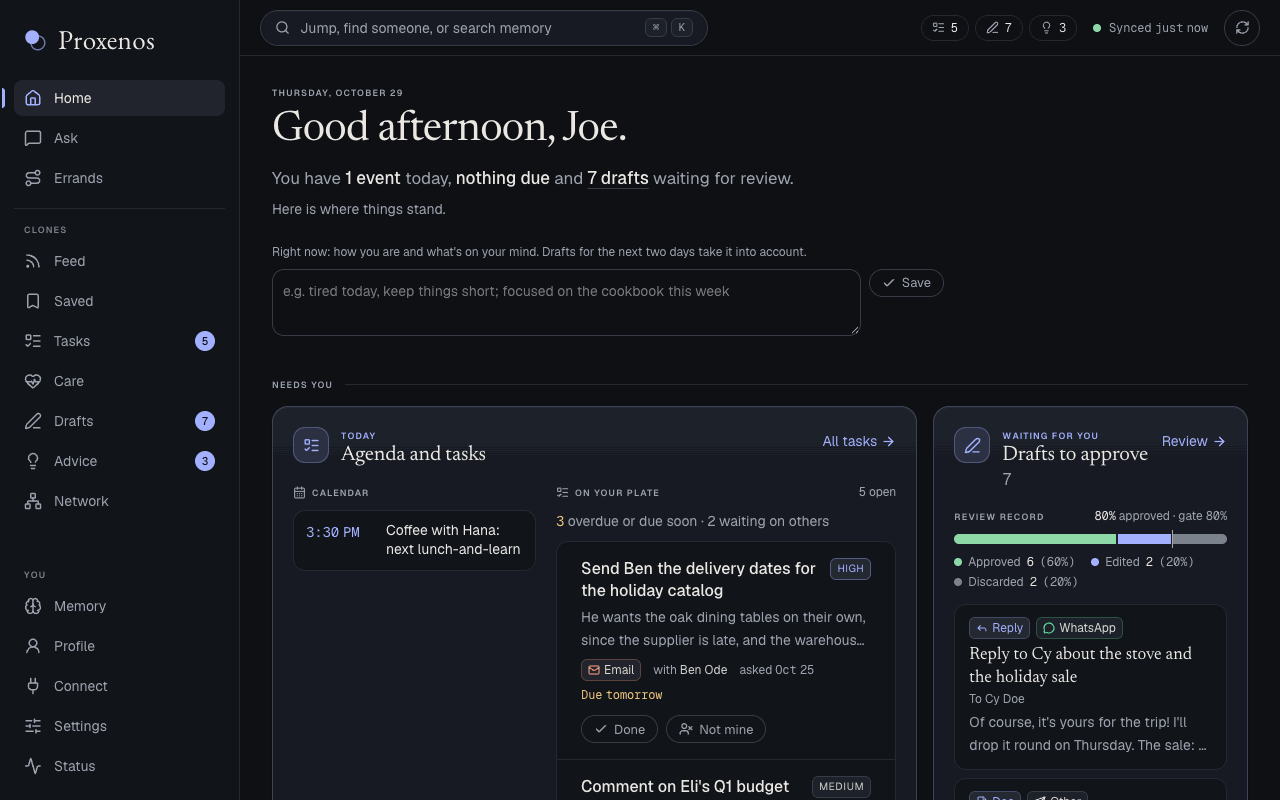
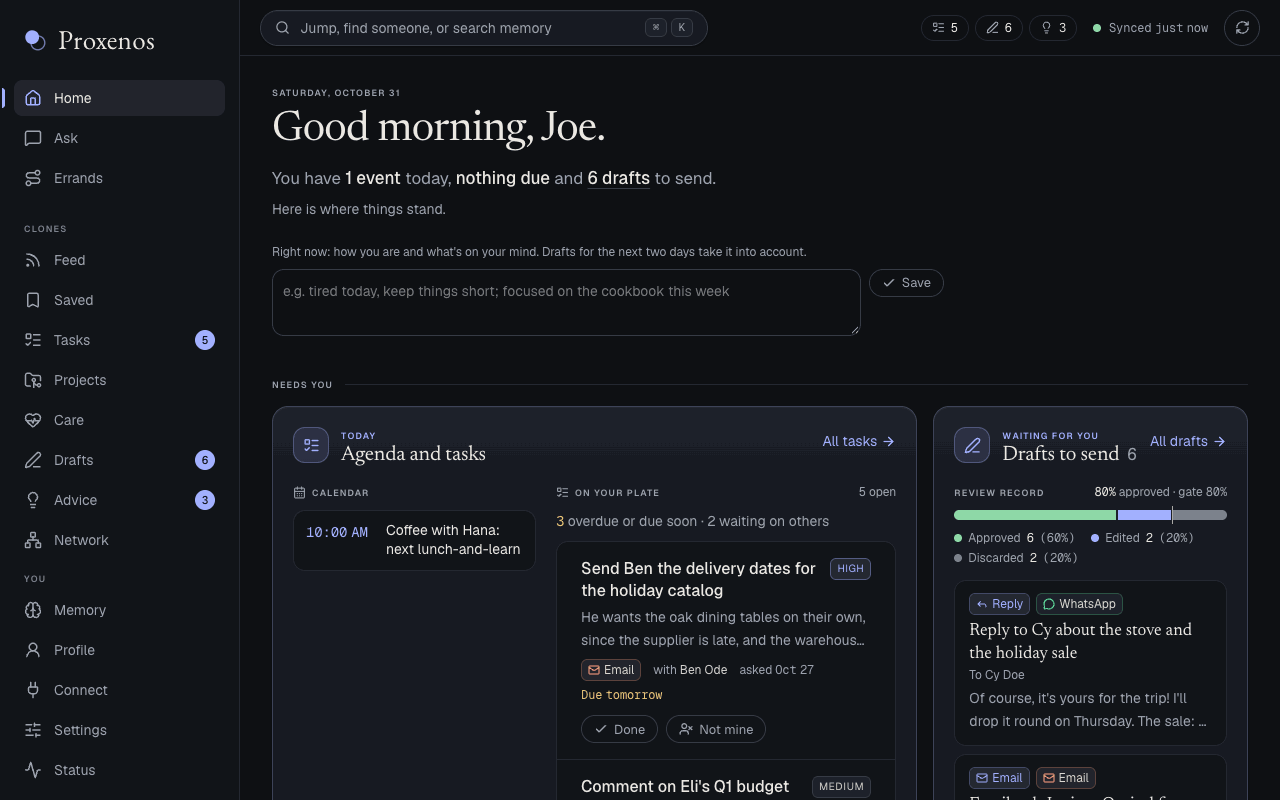
Retake the Proxenos pictures from the latest made-up demo, where drafts are ones to send, and describe them as they are now

diff --git a/projects/proxenos.html b/projects/proxenos.html
@@ -151,10 +151,10 @@
 			</ul>
 			<div class="shots">
 				<img class="wide" src="../img/proxenos/home-desktop.png"
-					alt="Proxenos's home page for a made-up person: today's agenda, open tasks and drafts waiting for approval"
+					alt="Proxenos's home page for a made-up person: today's agenda, open tasks and drafts to send"
 					loading="lazy">
 				<img src="../img/proxenos/care-phone.png"
-					alt="The Care view on a phone: where a made-up dental treatment stands and what's waiting on him"
+					alt="The Care view on a phone: where a made-up eye exam, new glasses and their bill stand, and what's waiting on him"
 					loading="lazy">
 				<img src="../img/proxenos/errands-phone.png"
 					alt="The Errands view on a phone: an email to a recruiter, ready to send with a CV attached"
